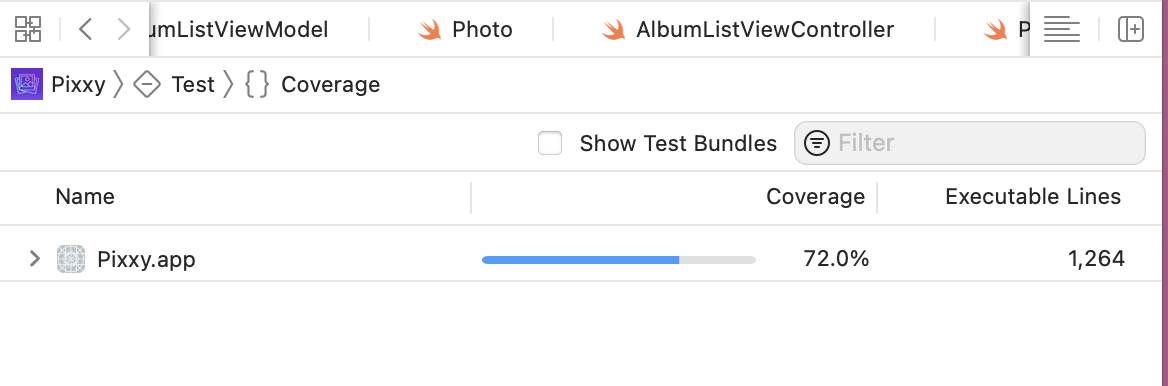
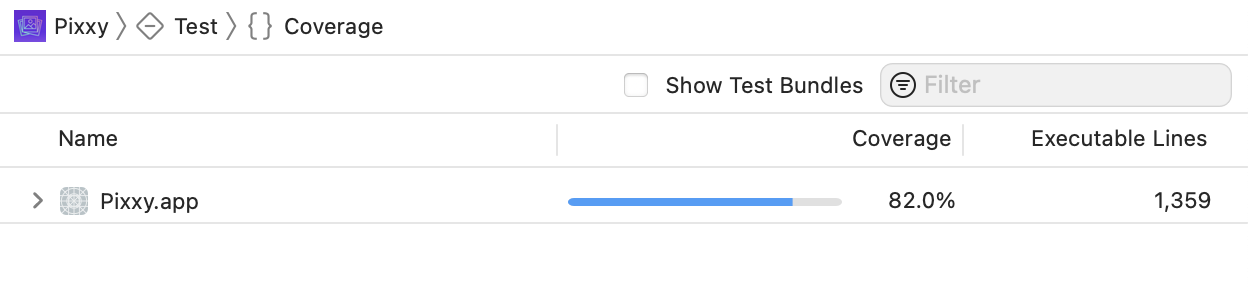
copy from data com project

Changed region(s): [[0.0, 0.0, 1.0, 1.0], [0.4007, 0.63, 0.7705, 0.69]]

diff --git a/PixxyUITest/PixxyUITest.swift b/PixxyUITest/PixxyUITest.swift
@@ -21,21 +21,40 @@ class PixxyUITest: XCTestCase {
         app.launch()
         let testBundle = Bundle(for: type(of: self ))
         let homeTitle = NSLocalizedString("AlbumListVC.NavCTRL.Title", bundle: testBundle, value: "Album", comment: "")
-        let homeNavBarTitle = app.staticTexts[homeTitle]
+        let homeNavBarTitle = app.navigationBars.staticTexts[homeTitle]
         XCTAssertTrue(homeNavBarTitle.waitForExistence(timeout: 2.0))
     }
     
+    func test_table_view_contains_all_albums() {
+        app.launchArguments = ["-MockService"]
+        app.launch()
+        XCTAssertEqual(100, app.tables.cells.count)
+    }
     
     func test_user_should_navigate_to_photo_collection_view_when_first_album_selected() {
         app.launchArguments = ["-MockService"]
         app.launch()
-        let cellTitle = "Quidem Molestiae Enim"
-        let firstAlbumCell = app.tables.staticTexts[cellTitle]
-//        let firstAlbumCell = app.cells["Cell_0_0"]
-//        let cellTitle = firstAlbumCell.descendants(matching: .staticText).element.title
-        firstAlbumCell.tap()
-        let homeNavBarTitle = app.staticTexts[cellTitle]
+        let testBundle = Bundle(for: type(of: self ))
+        let homeTitle = NSLocalizedString("AlbumListVC.NavCTRL.Title", bundle: testBundle, value: "Album", comment: "")
+        let homeNavBarTitle = app.navigationBars.staticTexts[homeTitle]
         XCTAssertTrue(homeNavBarTitle.waitForExistence(timeout: 2.0))
+        let firstAlbumCell = app.cells["Cell_0_0"]
+        firstAlbumCell.tap()
+        XCTAssertFalse( app.navigationBars.staticTexts[homeTitle].exists)
+    }
+    
+    func test_user_should_navigate_to_photo_detail_view_when_select_thumbinail_image() {
+        app.launchArguments = ["-MockService"]
+        app.launch()
+        let firstTableCell = app.tables.cells["Cell_0_0"]
+        firstTableCell.tap()
+        XCTAssertTrue(app.collectionViews.element.waitForExistence(timeout: 2.0))
+        let firstCollectoinViewCell = app.collectionViews.cells["PhotoCell_0_0"]
+        XCTAssertTrue(firstCollectoinViewCell.exists)
+        firstCollectoinViewCell.tap()
+        let originalImage = app.images.element
+        XCTAssertTrue(originalImage.exists)
+        XCTAssertEqual(app.images.count,1)
     }
     
     func test_user_should_able_to_select_first_album_even_if_users_endpoint_failed() {
@@ -43,8 +62,6 @@ class PixxyUITest: XCTestCase {
         app.launch()
         let cellTitle = "Quidem Molestiae Enim"
         let firstAlbumCell = app.tables.staticTexts[cellTitle]
-//        let firstAlbumCell = app.cells["Cell_0_0"]
-//        let cellTitle = firstAlbumCell.descendants(matching: .staticText).element.title
         firstAlbumCell.tap()
         let homeNavBarTitle = app.staticTexts[cellTitle]
         XCTAssertTrue(homeNavBarTitle.waitForExistence(timeout: 5.0))

diff --git a/Pixxy/Controllers/AlbumListViewController.swift b/Pixxy/Controllers/AlbumListViewController.swift
@@ -100,6 +100,22 @@ class AlbumListViewController: UIViewController {
             present(alert, animated: true)
         }
     }
+    
+    //This method developed to support UI testing to run without network access
+    private func getAlbumService() -> DataFetchable{
+        var webService: DataFetchable!
+    #if DEBUG
+        if ProcessInfo.processInfo.arguments.contains("-MockService") {
+            webService = MockAlbumService()
+        }else {
+            
+            webService = AlbumService()
+        }
+    #else
+        webService = AlbumService()
+    #endif
+        return webService
+    }
 }
 
 //MARK: - UITableViewDataSource
@@ -149,7 +165,7 @@ extension AlbumListViewController: UITableViewDelegate {
         guard let selectedViewModel = albumListViewModel.getAlbumViewModel(forSection: indexPath.section, forRow: indexPath.row) else {
             fatalError("Cannot load the album view model for the selected cell in AlbumListViewController")
         }
-        photoCollectionViewModelForSelectedItem = PhotoCollectionViewModel(albumID: selectedViewModel.albumID, albumTitle: selectedViewModel.titleText)
+        photoCollectionViewModelForSelectedItem = PhotoCollectionViewModel(albumID: selectedViewModel.albumID, albumTitle: selectedViewModel.titleText,photosService: self.getAlbumService())
         performSegue(withIdentifier: Constant.SegueIdentifier.toPhotoCollectionVC, sender: self)
     }
 }

diff --git a/Pixxy/Controllers/PhotoCollectionViewController.swift b/Pixxy/Controllers/PhotoCollectionViewController.swift
@@ -92,6 +92,22 @@ class PhotoCollectionViewController: UICollectionViewController {
         }
     }
     
+    //This method developed to support UI testing to run without network access
+    private func getPhotoService() -> ResourceLoader {
+        var photoService: ResourceLoader!
+#if DEBUG
+        if ProcessInfo.processInfo.arguments.contains("-MockService") {
+            photoService = MockPhotoService(photoType: .originalImage)
+        }else {
+            
+            photoService = PhotoService()
+        }
+#else
+        photoService = PhotoService()
+#endif
+        return photoService
+    }
+    
     //MARK: - UIStoryboardSegue Handling
     override func prepare(for segue: UIStoryboardSegue, sender: Any?) {
         if segue.identifier == Constant.SegueIdentifier.toPhotoDetailVC
@@ -127,7 +143,7 @@ class PhotoCollectionViewController: UICollectionViewController {
             return
         }
         selecteIndex = indexPath
-        photoDetailViewModelForSelectedCell = PhotoDetailViewModel(photoURL: selectedPhotoViewModel.url, photoTitle: selectedPhotoViewModel.title)
+        photoDetailViewModelForSelectedCell = PhotoDetailViewModel(photoURL: selectedPhotoViewModel.url, photoTitle: selectedPhotoViewModel.title, photoService: self.getPhotoService())
         performSegue(withIdentifier: Constant.SegueIdentifier.toPhotoDetailVC, sender: self)
     }
 }

diff --git a/Pixxy/ViewModels/PhotoCollectionViewModel.swift b/Pixxy/ViewModels/PhotoCollectionViewModel.swift
@@ -95,11 +95,27 @@ class PhotoCollectionViewModel: ObservableObject {
         DispatchQueue.global(qos: .userInitiated).async {
             var viewModelList = [PhotoViewModel]()
             for photo in photoList {
-                let photoViewModel = PhotoViewModel(title: photo.title, thumbnailUrl: photo.thumbnailUrl, url: photo.url)
+                let photoViewModel = PhotoViewModel(title: photo.title, thumbnailUrl: photo.thumbnailUrl, url: photo.url, photoService: self.getPhotoService())
                 viewModelList.append(photoViewModel)
             }
             self.photoViewModels = viewModelList
         }
+    }
+    
+    //This method developed to support UI testing to run without network access
+    private func getPhotoService() -> ResourceLoader{
+        var photoService: ResourceLoader!
+#if DEBUG
+        if ProcessInfo.processInfo.arguments.contains("-MockService") {
+            photoService = MockPhotoService(photoType: .thumbinailImage)
+        }else {
+            
+            photoService = PhotoService()
+        }
+#else
+        photoService = PhotoService()
+#endif
+        return photoService
     }
 }
 

diff --git a/Pixxy/Services/AlbumEndpoint.swift b/Pixxy/Services/AlbumEndpoint.swift
@@ -30,7 +30,7 @@ extension Endpoint {
     }
 }
 
-//Configure all endpoints by conforming to Endpoint protocol
+//Configure all endpoints by conforming to Endpoint  protocol
 enum AlbumEndpoint: Endpoint {
     
     case fetchAllAlbums

diff --git a/README.md b/README.md
@@ -3,10 +3,11 @@
 <p align="center">
     <img src="images/logo.png" alt="Logo" width="100" height="100">
   <p align="center">
-    Pixxy is a simple photo album application developed for iOS. >  [_Live Demo_](https://drive.google.com/file/d/12NfmBl_SAlEjKJyxicrXPxXOwu_Pm762/view?usp=sharing). 
+    Pixxy is a simple photo album application developed for iOS. 
   </p>
 </p>
 
+> Live demo [_here_](https://drive.google.com/file/d/12NfmBl_SAlEjKJyxicrXPxXOwu_Pm762/view?usp=sharing).
 
 <p align="row">
 <img src= "images/1.png" width="200" >
@@ -94,11 +95,13 @@ Since I have to develop the application using UIKit only, my options here are to
 
 ## Unit and UI Testing
 
-I have written many test cases to test all my ViewModel and also, several UI tests to test view controllers. Current test coverage for the project is above 70%.
+- I have written many test cases to test all my ViewModel and also, several UI tests to test view controllers. Current test coverage for the project is arround 80%. 
 
 <p align="row">
 <img src= "images/coverage.png" width="600" >
 </p>
+
+- Developed two Mock Services to test the application removing the dependancy on network. 
 
 ## Room for Improvement
 This application can be improved by adding following features
